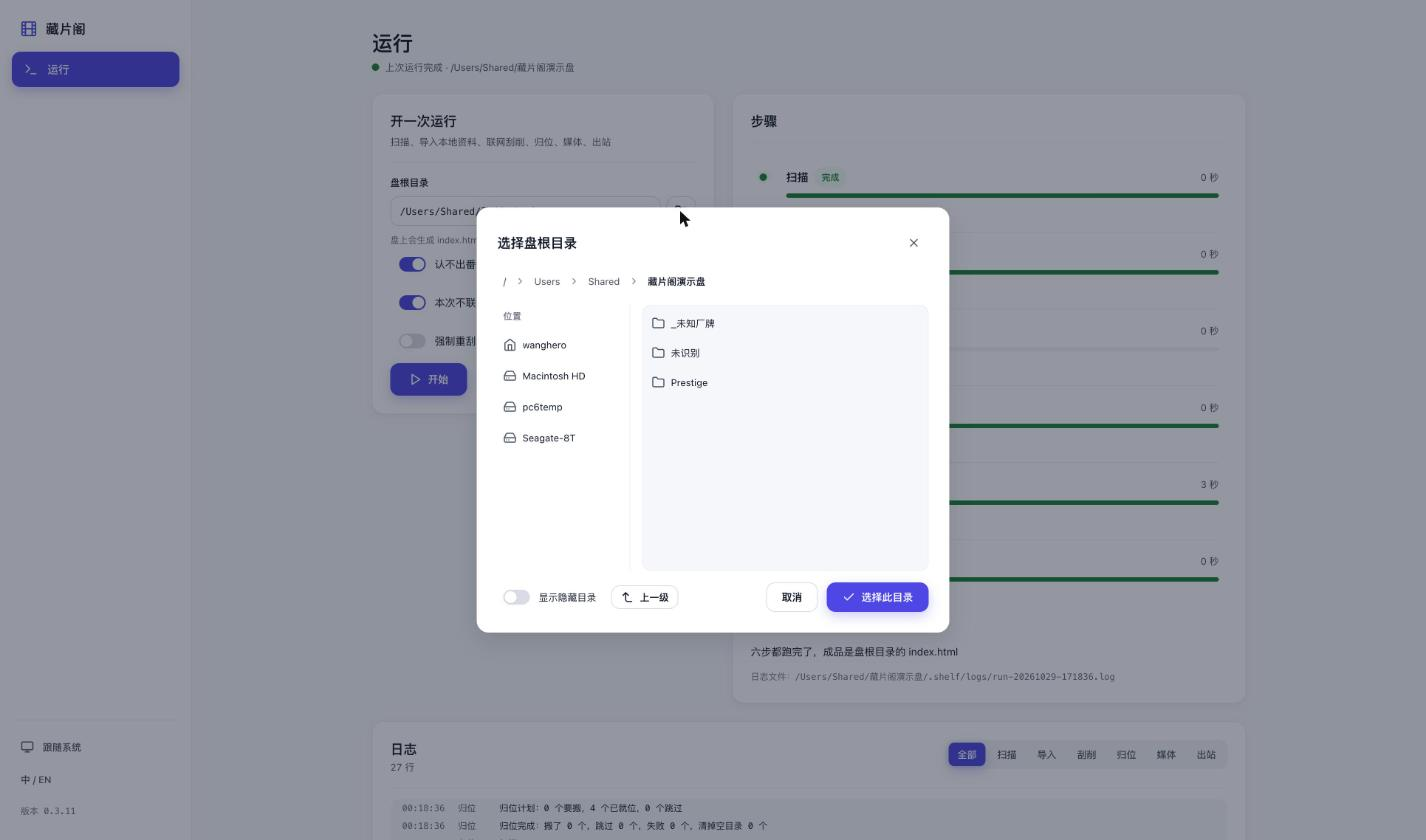
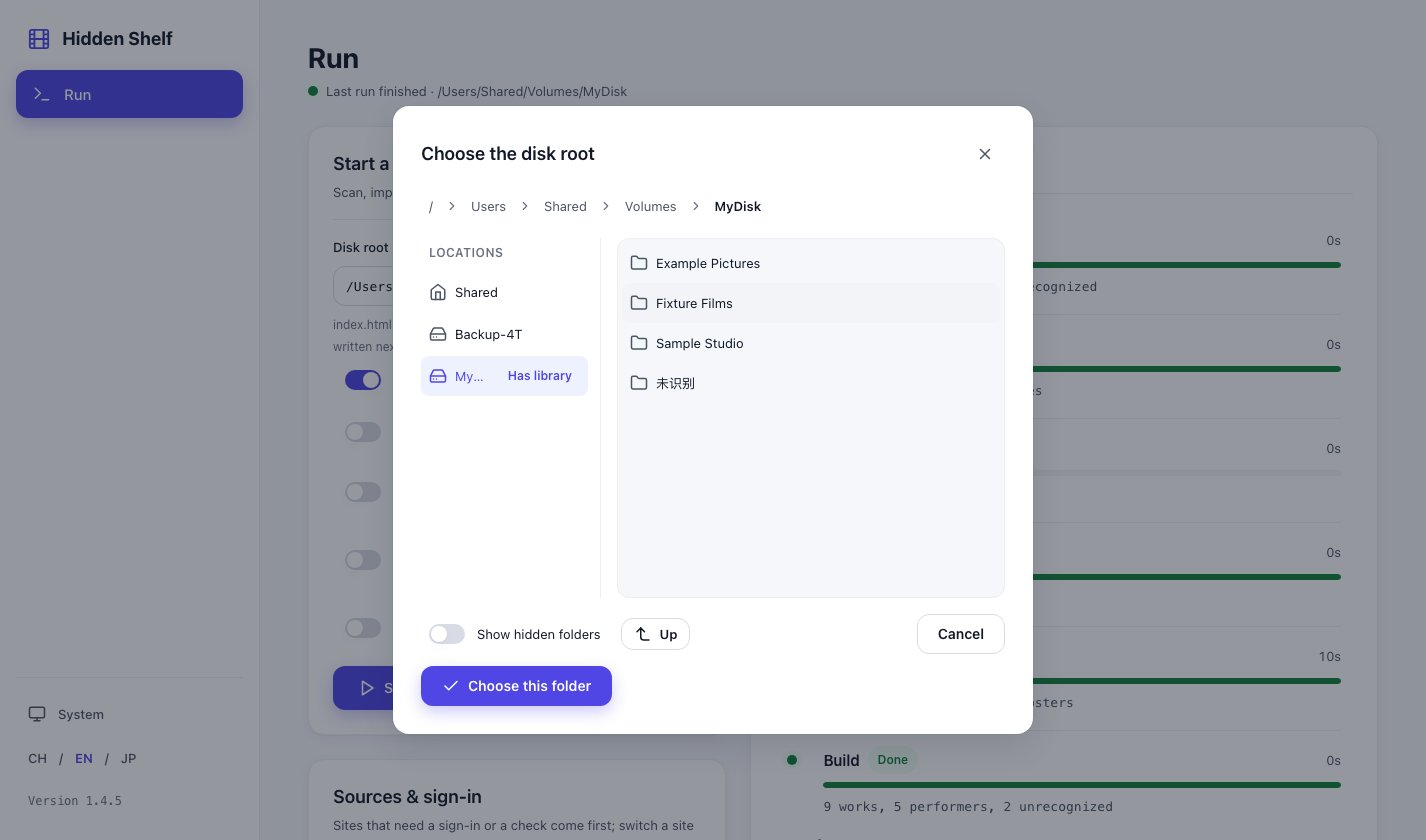
docs: README 截图换成演示站与 v1.4.5 进度页，新增作品页截图
Claude-Session: https://claude.ai/code/session_017fp2z5LNpUWMAAuW55JD34

diff --git a/README.md b/README.md
@@ -4,11 +4,15 @@
 
 ![tests](https://github.com/wanghero/Hidden-Shelf/actions/workflows/test.yml/badge.svg) · [中文](README.zh.md) · [Live demo](https://wanghero.github.io/Hidden-Shelf/) (demo data; it is a demo drive published as-is to GitHub Pages)
 
-| Poster wall | Progress page | Folder picker |
-|---|---|---|
-| ![Poster wall](docs/images/wall.jpg) | ![Progress page](docs/images/progress.jpg) | ![Folder picker](docs/images/picker.jpg) |
+| Poster wall | Work page |
+|---|---|
+| ![Poster wall](docs/images/wall.jpg) | ![Work page](docs/images/detail.jpg) |
 
-All screenshots use demo data.
+| Progress page | Folder picker |
+|---|---|
+| ![Progress page](docs/images/progress.jpg) | ![Folder picker](docs/images/picker.jpg) |
+
+All screenshots use demo data; the first two are the [live demo](https://wanghero.github.io/Hidden-Shelf/).
 
 ## Core idea: the disk is the truth, the site travels with it
 

diff --git a/README.zh.md b/README.zh.md
@@ -4,11 +4,15 @@
 
 ![tests](https://github.com/wanghero/Hidden-Shelf/actions/workflows/test.yml/badge.svg) · [English](README.md) · [在线预览](https://wanghero.github.io/Hidden-Shelf/)（演示数据，就是把一块演示盘原样放到 GitHub Pages 上）
 
-| 海报墙 | 进度网页 | 目录选择器 |
-|---|---|---|
-| ![海报墙](docs/images/wall.jpg) | ![进度网页](docs/images/progress.jpg) | ![目录选择器](docs/images/picker.jpg) |
+| 海报墙 | 作品页 |
+|---|---|
+| ![海报墙](docs/images/wall.jpg) | ![作品页](docs/images/detail.jpg) |
 
-截图里都是演示数据。
+| 进度网页 | 目录选择器 |
+|---|---|
+| ![进度网页](docs/images/progress.jpg) | ![目录选择器](docs/images/picker.jpg) |
+
+截图里都是演示数据，前两张就是[在线预览](https://wanghero.github.io/Hidden-Shelf/)。
 
 ## 核心思想：真相在盘里，站点随盘走
 
